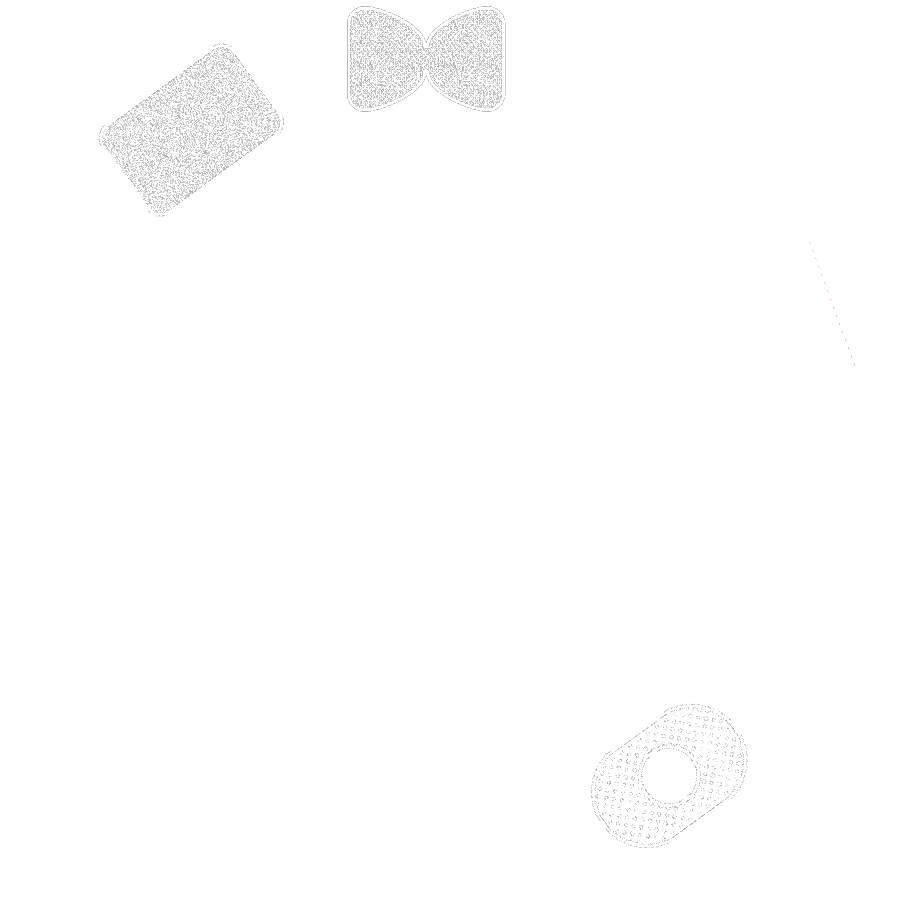
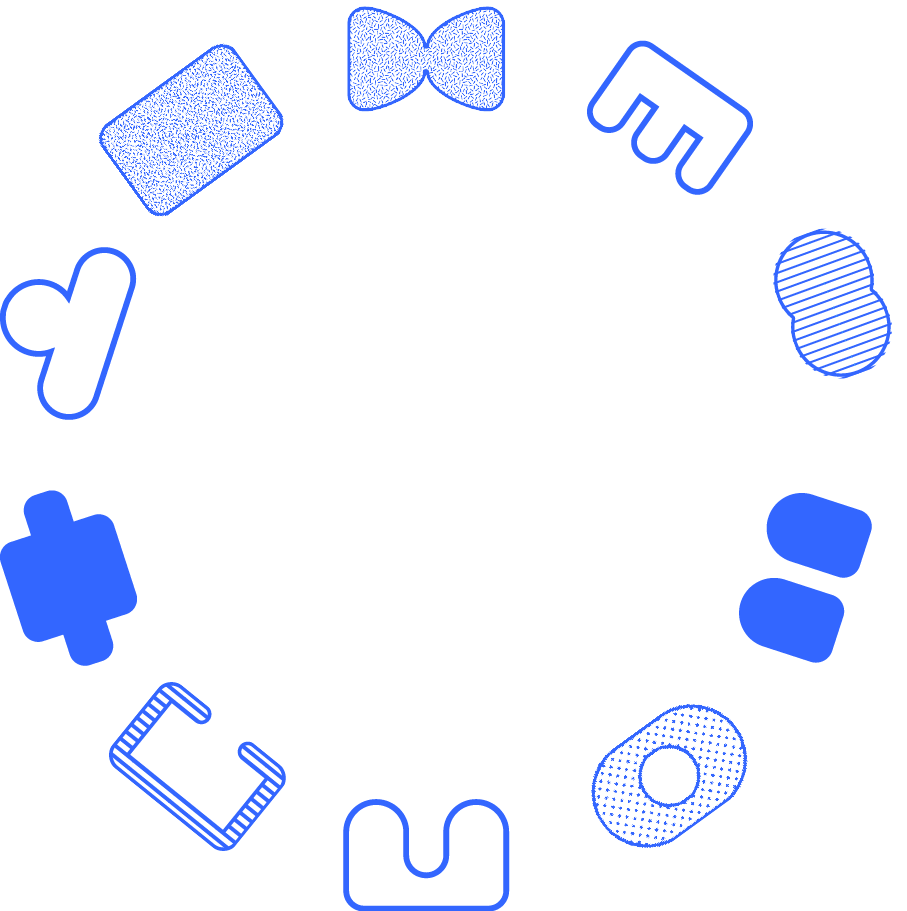
remove blue background from Teaching section

diff --git a/scss/bfamfaphd.scss b/scss/bfamfaphd.scss
@@ -2,12 +2,6 @@
   .interstitial-module {
     position: relative;
     width: auto;
-    color: $white;
-    padding: 80px 0;
-    margin: 0 -600rem;
-    background: $light-blue;
-    border-left: 600rem solid $light-blue;
-    border-right: 600rem solid $light-blue;
     .supply-ring {
       margin: 0px auto;
       background-image: url('../assets/images/supply_chains_ring.png');
@@ -18,11 +12,11 @@
       height: 30vh;
     }
     h3, h3.lead, a, p {
-      color: $white !important;
       max-width: 800px;
     }
     h3 a {
-      border-bottom: 1px solid $white;
+      color: $light-blue;
+      border-bottom: 1px solid $light-blue;
       padding-bottom: 6px;
       z-index: 3;
     }
